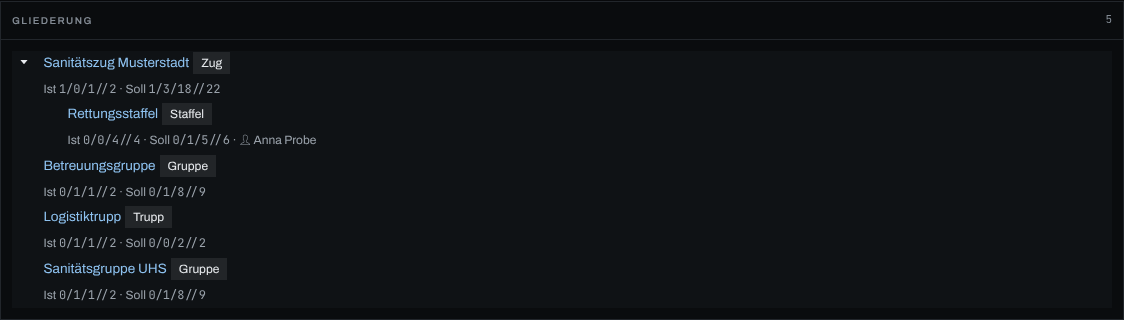
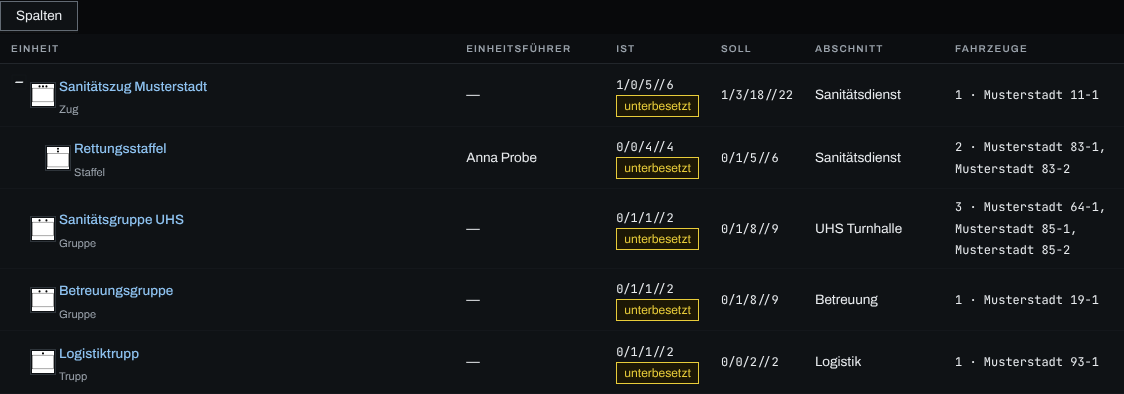
docs(anwender): Einheiten-Gliederung als Tabelle im Kräftebaum
Ablauf „Die Gliederung lesen“ auf die Tabelle umgeschrieben (Spalten,
Aufklappen, Handy), Hintergrund um die kumulierte Ist-Stärke mit
„unterbesetzt“ und um „Gliederung und Meldebild“ (gleiche Ordnung,
geerbter Abschnitt) ergänzt. Bild `gliederung` neu erzeugt
(`doku:bilder`), die Bilder-Spec nennt die gezeigten Komponenten.

Zunder: https://zunder.rubeen.dev/#/aufgabe/i1kzw6ntyrjyt3r1uwy03oh2

Claude-Session: https://claude.ai/code/session_01DDFgqKuDE2TAXVLAHHoUGt

diff --git a/frontend/e2e/doku-bilder/einheiten.bilder.ts b/frontend/e2e/doku-bilder/einheiten.bilder.ts
@@ -16,7 +16,8 @@ import {
  *
  * Gezeigte Ansichten — wer sie umbaut, erzeugt die Bilder neu
  * (`pnpm doku:bilder --grep einheiten`, Mitänderungsregel in `docs/anwender/AGENTS.md`):
- *   gliederung.png      frontend/src/pages/EinheitenPage.tsx (Paneel „Gliederung“)
+ *   gliederung.png      frontend/src/pages/EinheitenPage.tsx (Tabelle „Gliederung“,
+ *                       frontend/src/kraefte/KraeftebaumZelle.tsx, components/Datensicht.tsx)
  *   einheit-bilden.png  frontend/src/pages/EinheitenPage.tsx (Dialog „Einheit bilden“)
  *   personal.png        frontend/src/pages/EinheitDetailPage.tsx (Paneel „Personal“)
  *
@@ -69,9 +70,10 @@ test.describe(KAPITEL, () => {
     const demo = await demoEinsatz(page);
     await uhrAnhalten(page);
     await page.goto(`/einsaetze/${demo.id}/einheiten`);
-    const paneel = page.getByRole('region', { name: 'Gliederung' });
-    await expect(paneel.getByRole('link', { name: 'Rettungsstaffel' })).toBeVisible();
-    await fotografiere(paneel, KAPITEL, 'gliederung');
+    const tabelle = page.getByRole('region', { name: 'Gliederung' });
+    await expect(tabelle.getByRole('link', { name: 'Rettungsstaffel' })).toBeVisible();
+    await page.mouse.move(0, 0);
+    await fotografiere(tabelle, KAPITEL, 'gliederung');
   });
 
   test('Dialog „Einheit bilden“', async ({ page }) => {

diff --git a/docs/anwender/kapitel/einheiten.md b/docs/anwender/kapitel/einheiten.md
@@ -2,7 +2,7 @@
 titel: Einheiten
 gruppen: [fuehrung]
 reihenfolge: 310
-quellen: [frontend/src/pages/EinheitenPage.tsx, frontend/src/pages/EinheitDetailPage.tsx, frontend/src/kraefte/KraftZeitachse.tsx, frontend/src/einsatz/schreibrecht.ts, src/routes/einsatz_einheit.rs, src/einheit/mod.rs, src/einheit/repo.rs, src/einheit/mitglied_repo.rs]
+quellen: [frontend/src/pages/EinheitenPage.tsx, frontend/src/kraefte/einheitenGliederung.ts, frontend/src/kraefte/kraeftebaumKern.ts, frontend/src/pages/EinheitDetailPage.tsx, frontend/src/kraefte/KraftZeitachse.tsx, frontend/src/einsatz/schreibrecht.ts, src/routes/einsatz_einheit.rs, src/einheit/mod.rs, src/einheit/repo.rs, src/einheit/mitglied_repo.rs]
 ---
 
 ## Überblick
@@ -21,12 +21,14 @@ dürfen Einsatzleitung und Führungspersonal.
 ### Die Gliederung lesen
 
 1. Unter „Kräfte & Mittel“ „Einheiten“ öffnen.
-2. Im Paneel „Gliederung“ jede Einheit mit Typ lesen, darunter „Ist“, „Soll“ und den Einheitsführer.
-   Unterstellte Einheiten stehen eingerückt unter ihrer Über-Einheit.
+2. In der Tabelle „Gliederung“ je Einheit „Einheitsführer“, „Ist“, „Soll“, „Abschnitt“ und
+   „Fahrzeuge“ lesen. Unterstellte Einheiten stehen eingerückt unter ihrer Über-Einheit; das Plus-
+   bzw. Minuszeichen vor einer Einheit klappt ihre Untereinheiten auf und zu.
 
-   ![Paneel „Gliederung“ mit dem Sanitätszug, der unterstellten Rettungsstaffel mit Einheitsführerin und drei weiteren Einheiten, je mit Ist- und Soll-Stärke](../bilder/einheiten/gliederung.png)
+   ![Tabelle „Gliederung“ mit dem Sanitätszug, der eingerückten Rettungsstaffel samt Einheitsführerin und weiteren Einheiten, je mit Ist- und Soll-Stärke, Abschnitt und Fahrzeugen](../bilder/einheiten/gliederung.png)
 
-3. Den Namen einer Einheit wählen, um ihre Seite zu öffnen.
+3. Am Handy stehen nur Einheit, „Ist“ und „Soll“; die übrigen Spalten holt „Spalten“ zurück.
+4. Den Namen einer Einheit wählen, um ihre Seite zu öffnen.
 
 ### Eine Einheit bilden
 
@@ -92,6 +94,21 @@ Mannschaft), die im Modul Personal gesetzt wird. Einheitsführer ist ein eigenes
 mit der Position „Führer“ ist dadurch noch nicht Einheitsführer, die Seite weist darauf hin. Je
 Einheit gibt es einen Einheitsführer. Die kumulierte Ist-Stärke rechnet alle unterstellten Einheiten
 mit ein.
+
+In der Gliederung steht unter „Ist“ die kumulierte Ist-Stärke: ein Zug zählt seine Gruppen mit,
+jede Gruppe zeigt ihre eigene. Fehlt in einer Position (Führer, Unterführer oder Mannschaft) jemand
+gegenüber dem Soll, steht darunter „unterbesetzt“, als Hinweis, nicht als Warnung; mehr Kräfte in
+einer Position gleichen eine fehlende nicht aus. Eine erfüllte Stärke trägt kein Zeichen.
+
+### Gliederung und Meldebild
+
+Die Gliederung zeigt dieselben Einheiten in derselben Ordnung wie das
+[Meldebild](meldebild.md): nach der Reihenfolge der Einsatzabschnitte, darin in der Reihenfolge, in
+der die Einheiten gebildet wurden; unterstellte Einheiten unter ihrer Über-Einheit. Eine
+unterstellte Einheit ohne eigenen Abschnitt zeigt den Abschnitt ihrer Über-Einheit. Fahrzeuge,
+Personal und Material einer Einheit stehen im Meldebild und auf der Seite der Einheit, nicht in der
+Gliederung. Die Gesamtstärke aller Kräfte steht über der Tabelle, zusammen mit dem Weg ins
+Meldebild.
 
 ### Status und Zeitachse
 
